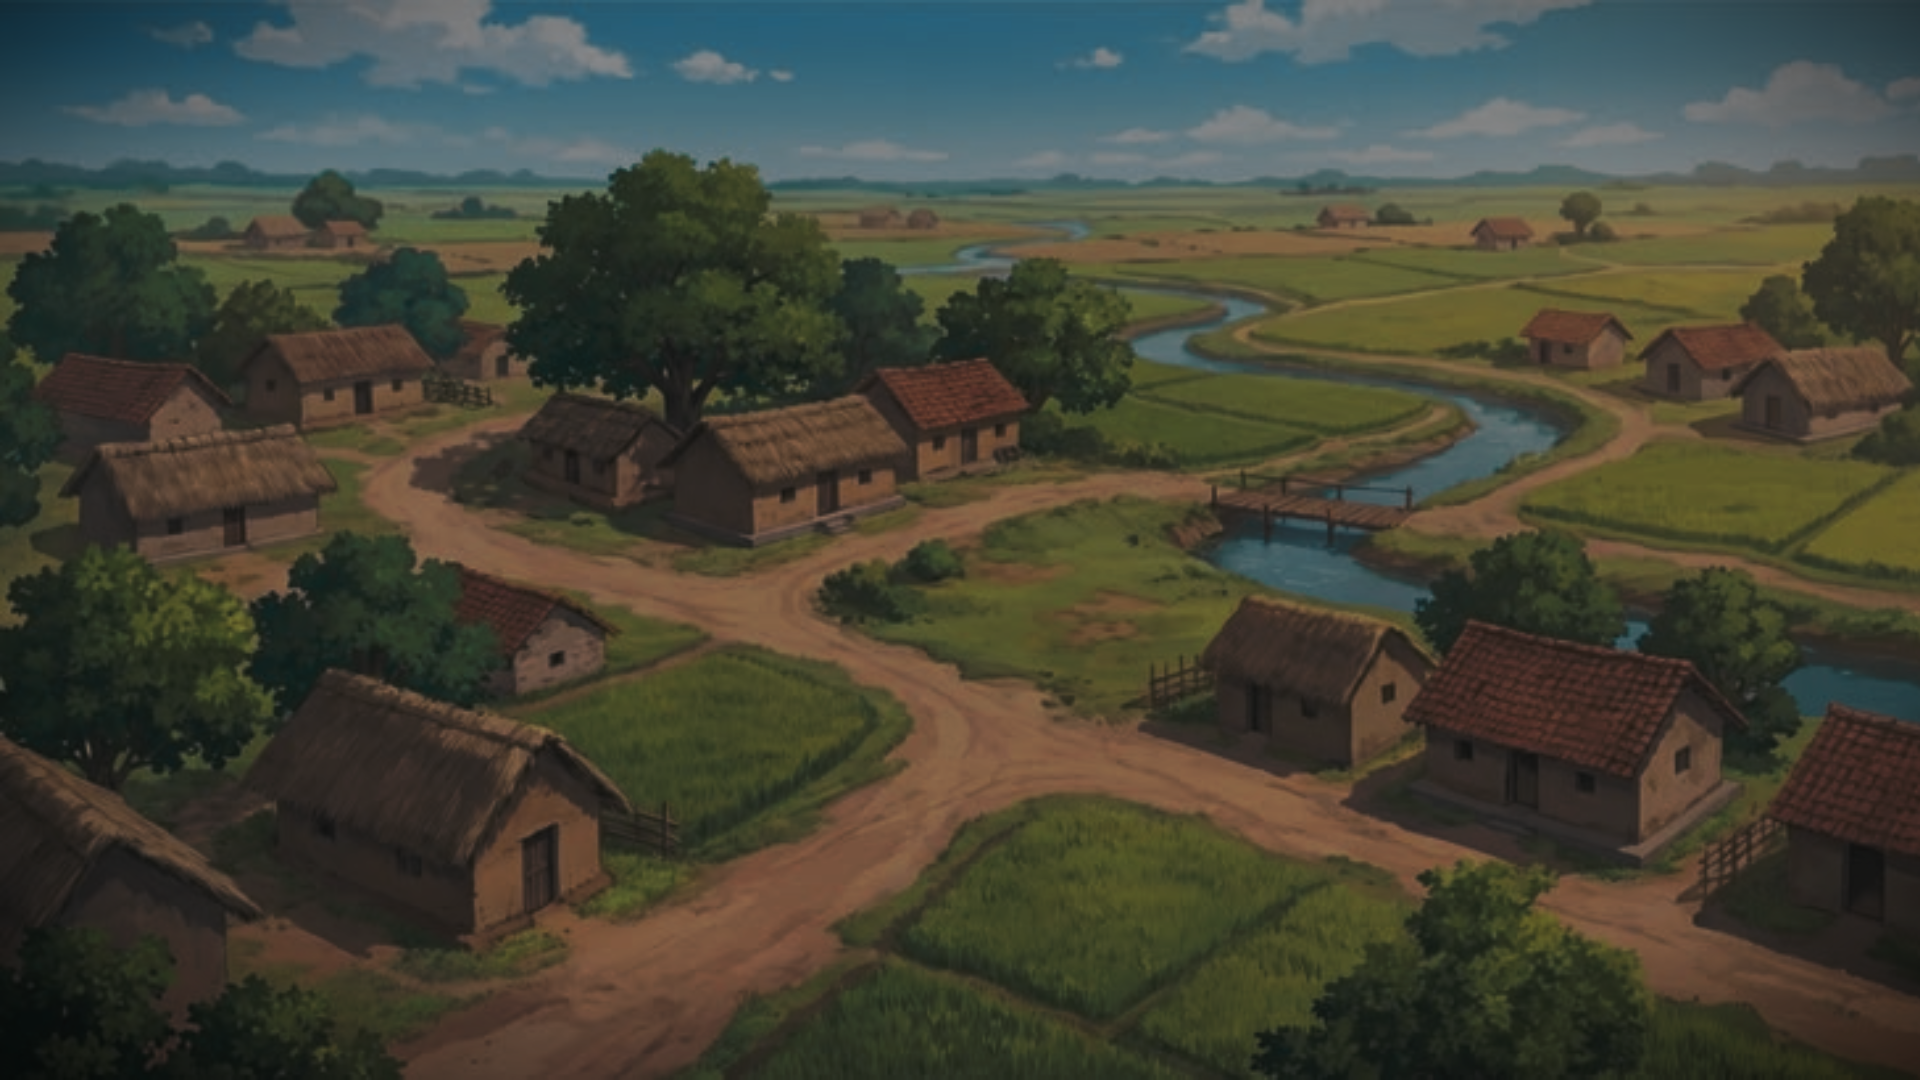
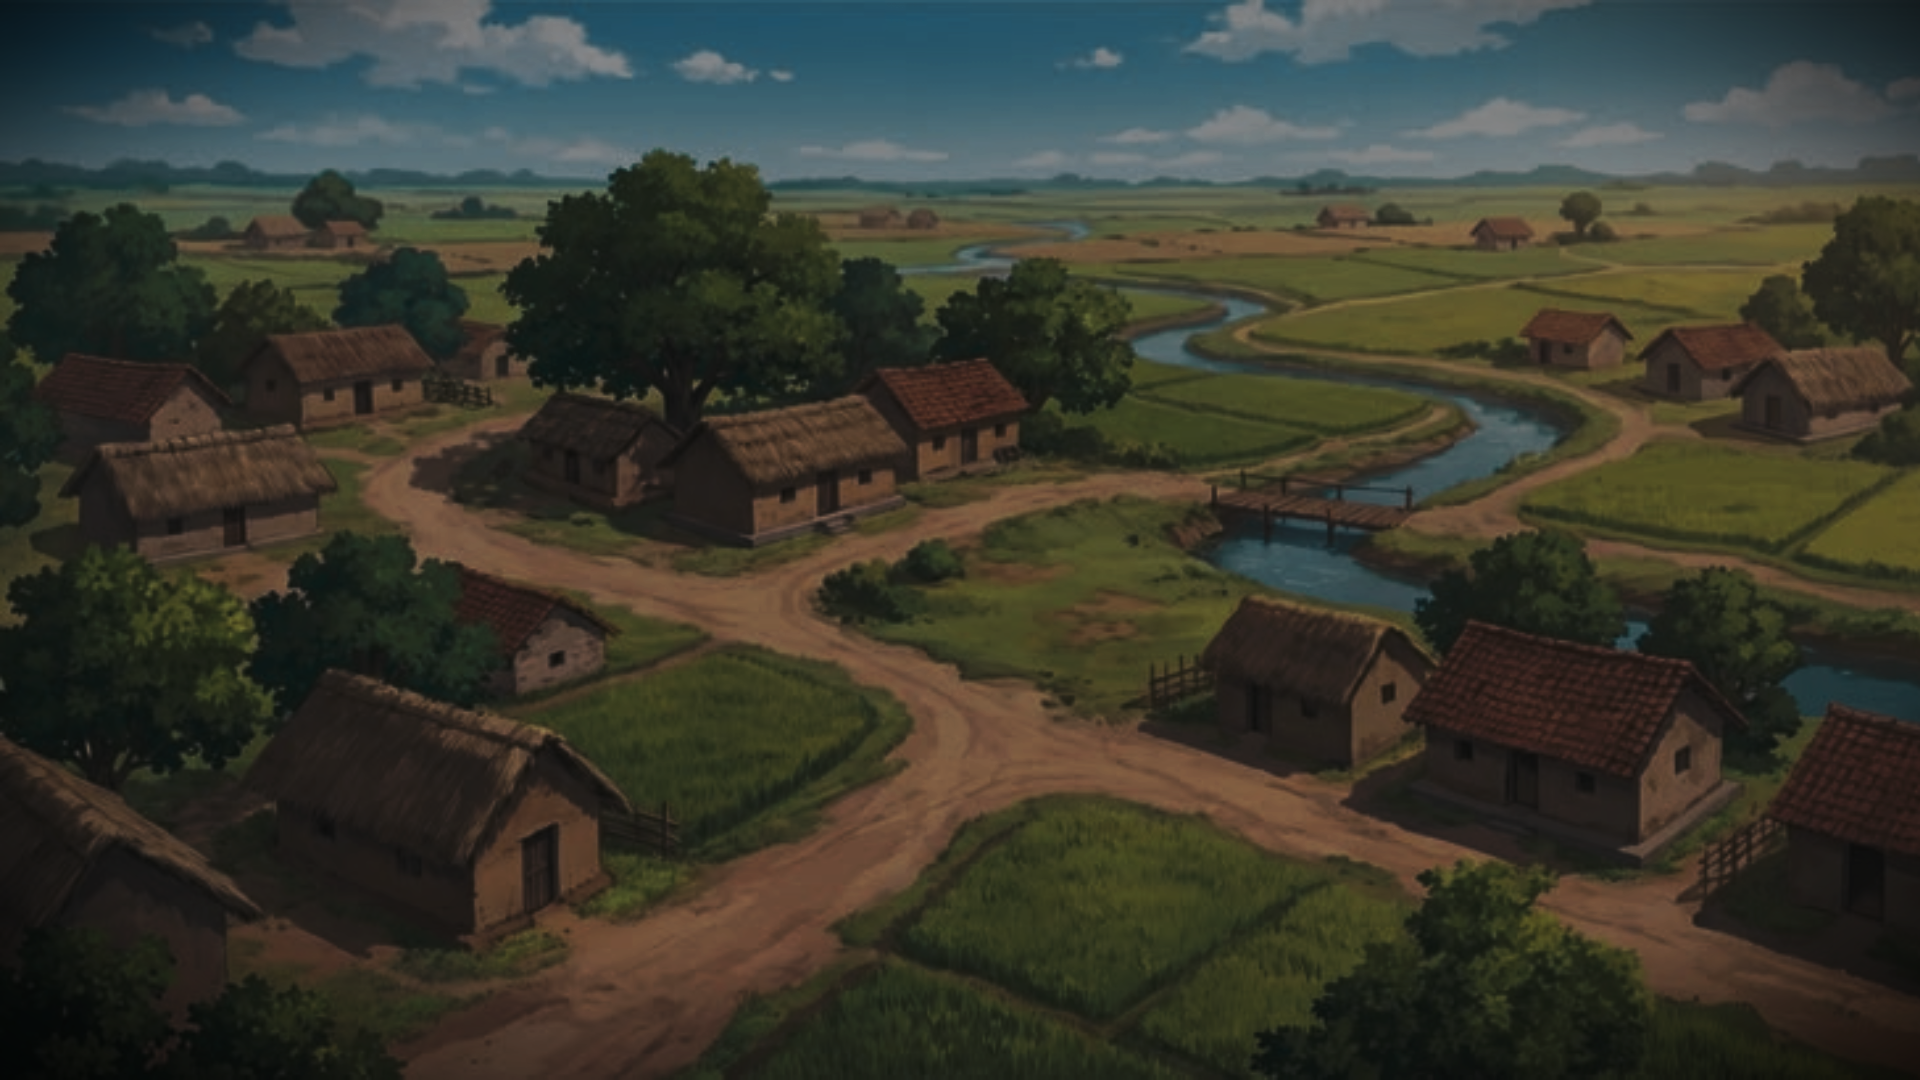
Updated intro

Changed region(s): [[0.0, 0.0, 0.125, 0.1222], [0.9062, 0.0, 1.0, 0.0917], [0.9688, 0.9167, 1.0, 0.9472]]

diff --git a/my-game/intro.cpp b/my-game/intro.cpp
@@ -1,7 +1,10 @@
 #include "intro.h"
 #include "raylib.h"
 #include <cmath>
-
+#include <vector>
+#include <cstdlib>
+#include <climits>
+#include <ctime>
 
 
 // ================= UPDATE =================
@@ -38,6 +41,8 @@ void DrawIntro(int highScore, Texture2D introTex) {
     DrawTextureEx(introTex, {0, 0}, 0.0f, 
         (float)screenWidth / introTex.width, WHITE);
 
+
+
     float buttonWidth = 300;
     float buttonHeight = 80;
 
@@ -52,18 +57,13 @@ void DrawIntro(int highScore, Texture2D introTex) {
     bool hovered = CheckCollisionPointRec(mouse, playButton);
 
     // ===== TITLE =====
-    const char* title = "Curse of the Wings";
-    int titleSize = 60;
+     const char* title = "Curse of the Wings";
+     int titleSize = 60;
 
-    int titleWidth = MeasureText(title, titleSize);
+     int titleWidth = MeasureText(title, titleSize);
 
-    //DrawText(
-       // title,
-        //screenWidth / 2 - titleWidth / 2,
-       // screenHeight / 2 - 150,
-       // titleSize,
-       // RED
-   //);
+    // Title Y position
+     int titleY = screenHeight / 2 - 150;
 
    float fadeAlpha = fminf(GetTime() * 0.5f, 1.0f); // fade in over ~2 seconds
 
@@ -75,12 +75,23 @@ void DrawIntro(int highScore, Texture2D introTex) {
          BLACK);
 
     // main title wl fade effect
-    DrawText(title,
+    DrawText(title, 
          screenWidth / 2 - titleWidth / 2,
          screenHeight / 2 - 150,
          titleSize,
-         Fade(Color{255, 215, 0, 255}, fadeAlpha)); //fade in gold color
+         Fade(Color{148, 0, 211, 255}, fadeAlpha));
+         
+     
+    // ===== HIGH SCORE  =====
+      const char* scoreText = TextFormat("High Score: %d", highScore);
+      int scoreFontSize = 30;
+      int scoreWidth = MeasureText(scoreText, scoreFontSize);
 
+     DrawText(scoreText,
+         screenWidth / 2 - scoreWidth / 2,
+         titleY + titleSize + 20,   
+         scoreFontSize,
+         Color{245, 245, 220, 255});
 
     // ===== BUTTON =====
     if (hovered) {
@@ -111,15 +122,6 @@ void DrawIntro(int highScore, Texture2D introTex) {
     );
 
 
-    const char* scoreText = TextFormat("High Score: %d", highScore);
-       int scoreWidth = MeasureText(scoreText, 30);
-
-     DrawRectangle(0, 0, screenWidth, 60, Fade(BLACK, 0.5f)); // semi-transparent bar
-
-     DrawText(scoreText,
-         screenWidth / 2 - scoreWidth / 2,
-         screenHeight - 50,
-         30,
-         Color{245, 245, 220, 255});
+    
 
 }